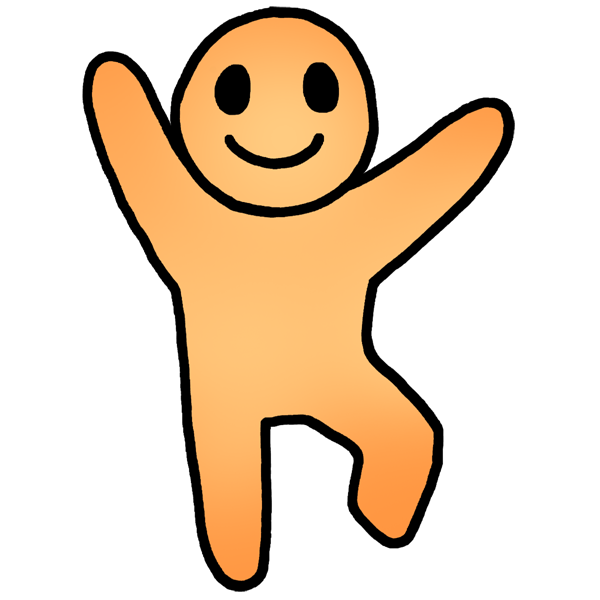
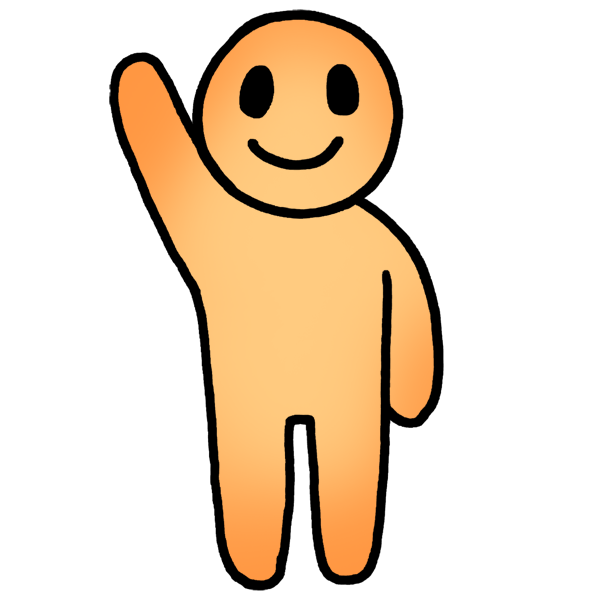
Updating apps.

Changed region(s): [[0.12, 0.0, 0.87, 0.99]]

diff --git a/projects/FlagKinect/output/FlagKinect.pde.html b/projects/FlagKinect/output/FlagKinect.pde.html
@@ -1,1 +1,1 @@
-<html><head><meta http-equiv="Content-Type" content="text/html; charset=utf-8"/><title>FlagKinect</title></head><body>Human&nbsp;human;<br>PFont&nbsp;font,&nbsp;largeFont;<br>PImage&nbsp;left,&nbsp;right;<br><font color="purple"><b>int</b></font>&nbsp;start;<br><font color="purple"><b>int</b></font>&nbsp;score;<br><font color="purple"><b>boolean</b></font>&nbsp;flag;<br><br><font color="purple"><b>void</b></font>&nbsp;setup()&nbsp;{<br>&nbsp;&nbsp;human&nbsp;=&nbsp;<font color="purple"><b>new</b></font>&nbsp;Human();<br>&nbsp;&nbsp;font&nbsp;=&nbsp;createFont(&quot;Meiryo&nbsp;UI&quot;,&nbsp;24,&nbsp;<font color="purple"><b>true</b></font>);<br>&nbsp;&nbsp;largeFont&nbsp;=&nbsp;createFont(&quot;Meiryo&nbsp;UI&quot;,&nbsp;40,&nbsp;<font color="purple"><b>true</b></font>);<br>&nbsp;&nbsp;size(640,&nbsp;640);<br>&nbsp;&nbsp;frameRate(15);<br>&nbsp;&nbsp;start&nbsp;=&nbsp;getTime();<br>&nbsp;&nbsp;flag&nbsp;=&nbsp;random(0,&nbsp;1)&nbsp;&gt;&nbsp;0.5;<br>&nbsp;&nbsp;left&nbsp;=&nbsp;loadImage(&quot;left.png&quot;);<br>&nbsp;&nbsp;right&nbsp;=&nbsp;loadImage(&quot;right.png&quot;);<br>}<br><br><font color="purple"><b>void</b></font>&nbsp;draw()&nbsp;{<br><br>&nbsp;&nbsp;<font color="#cc3300">//&nbsp;姿勢取得<br></font>&nbsp;&nbsp;Pose&nbsp;pose&nbsp;=&nbsp;human.getPose();<br><br>&nbsp;&nbsp;<font color="#cc3300">//&nbsp;背景クリア<br></font>&nbsp;&nbsp;<font color="purple"><b>if</b></font>&nbsp;(pose&nbsp;==&nbsp;<font color="purple"><b>null</b></font>)&nbsp;{<br>&nbsp;&nbsp;&nbsp;&nbsp;background(200);<br>&nbsp;&nbsp;}&nbsp;<font color="purple"><b>else</b></font>&nbsp;{<br>&nbsp;&nbsp;&nbsp;&nbsp;background(255);<br>&nbsp;&nbsp;}<br>&nbsp;&nbsp;fill(0);<br><br>&nbsp;&nbsp;<font color="#cc3300">//&nbsp;指示<br></font>&nbsp;&nbsp;textFont(largeFont);<br>&nbsp;&nbsp;textAlign(CENTER);<br>&nbsp;&nbsp;<font color="purple"><b>if</b></font>&nbsp;(flag)&nbsp;{<br>&nbsp;&nbsp;&nbsp;&nbsp;image(left,&nbsp;20,&nbsp;10);<br>&nbsp;&nbsp;&nbsp;&nbsp;text(&quot;左手あげて！&quot;,&nbsp;320,&nbsp;610);<br>&nbsp;&nbsp;}&nbsp;<font color="purple"><b>else</b></font>&nbsp;{<br>&nbsp;&nbsp;&nbsp;&nbsp;image(right,&nbsp;20,&nbsp;10);<br>&nbsp;&nbsp;&nbsp;&nbsp;text(&quot;右手あげて！&quot;,&nbsp;320,&nbsp;610);<br>&nbsp;&nbsp;}<br><br>&nbsp;&nbsp;<font color="#cc3300">//&nbsp;得点<br></font>&nbsp;&nbsp;textFont(font);<br>&nbsp;&nbsp;textAlign(LEFT);<br>&nbsp;&nbsp;text(&quot;得点:&nbsp;&quot;&nbsp;+&nbsp;score,&nbsp;10,&nbsp;30);<br><br>&nbsp;&nbsp;<font color="#cc3300">//&nbsp;正解判定<br></font>&nbsp;&nbsp;<font color="purple"><b>if</b></font>&nbsp;(pose&nbsp;==&nbsp;<font color="purple"><b>null</b></font>)&nbsp;{<br>&nbsp;&nbsp;&nbsp;&nbsp;<font color="purple"><b>return</b></font>;<br>&nbsp;&nbsp;}<br>&nbsp;&nbsp;<font color="purple"><b>if</b></font>&nbsp;(flag&nbsp;&amp;&amp;&nbsp;pose.eq(<a href="./poses/New pose (3).txt"><img src="./poses/New pose (3).jpg" width="160" border="1" /></a>))<br>&nbsp;&nbsp;||&nbsp;!flag&nbsp;&amp;&amp;&nbsp;pose.eq(<a href="./poses/New pose (4).txt"><img src="./poses/New pose (4).jpg" width="160" border="1" /></a>)))&nbsp;{<br>&nbsp;&nbsp;&nbsp;&nbsp;<font color="purple"><b>int</b></font>&nbsp;end&nbsp;=&nbsp;getTime();<br>&nbsp;&nbsp;&nbsp;&nbsp;score&nbsp;=&nbsp;100&nbsp;-&nbsp;(end&nbsp;-&nbsp;start);<br>&nbsp;&nbsp;&nbsp;&nbsp;<font color="purple"><b>if</b></font>&nbsp;(score&nbsp;&lt;&nbsp;0)&nbsp;{<br>&nbsp;&nbsp;&nbsp;&nbsp;&nbsp;&nbsp;score&nbsp;=&nbsp;0;<br>&nbsp;&nbsp;&nbsp;&nbsp;}<br>&nbsp;&nbsp;&nbsp;&nbsp;flag&nbsp;=&nbsp;random(0,&nbsp;1)&nbsp;&gt;&nbsp;0.5;<br>&nbsp;&nbsp;}<br>}<br><br><font color="purple"><b>int</b></font>&nbsp;getTime()&nbsp;{<br>&nbsp;&nbsp;<font color="purple"><b>return</b></font>&nbsp;hour()&nbsp;*&nbsp;60&nbsp;*&nbsp;60&nbsp;+&nbsp;minute()&nbsp;*&nbsp;60&nbsp;+&nbsp;second();<br>}<br></body></html>
+<html><head><meta http-equiv="Content-Type" content="text/html; charset=utf-8"/><title>FlagKinect</title></head><body>Human&nbsp;human;<br>PFont&nbsp;font,&nbsp;largeFont;<br>PImage&nbsp;left,&nbsp;right,&nbsp;none,&nbsp;both;<br>Pose&nbsp;pose;<br><font color="purple"><b>int</b></font>&nbsp;start;<br><font color="purple"><b>int</b></font>&nbsp;score;<br><font color="purple"><b>int</b></font>&nbsp;goal;<br><br><font color="#cc3300">//&nbsp;はじめに一度だけ実行される処理<br></font><font color="purple"><b>void</b></font>&nbsp;setup()&nbsp;{<br>&nbsp;&nbsp;human&nbsp;=&nbsp;<font color="purple"><b>new</b></font>&nbsp;Human();<br>&nbsp;&nbsp;human.showCaptureFrame(<font color="purple"><b>true</b></font>);<br>&nbsp;&nbsp;font&nbsp;=&nbsp;createFont(&quot;Meiryo&nbsp;UI&quot;,&nbsp;24,&nbsp;<font color="purple"><b>true</b></font>);<br>&nbsp;&nbsp;largeFont&nbsp;=&nbsp;createFont(&quot;Meiryo&nbsp;UI&quot;,&nbsp;40,&nbsp;<font color="purple"><b>true</b></font>);<br>&nbsp;&nbsp;size(640,&nbsp;640);<br>&nbsp;&nbsp;frameRate(15);<br>&nbsp;&nbsp;start&nbsp;=&nbsp;-1;<br>&nbsp;&nbsp;left&nbsp;=&nbsp;loadImage(&quot;left.png&quot;);<br>&nbsp;&nbsp;right&nbsp;=&nbsp;loadImage(&quot;right.png&quot;);<br>&nbsp;&nbsp;none&nbsp;=&nbsp;loadImage(&quot;none.png&quot;);<br>&nbsp;&nbsp;both&nbsp;=&nbsp;loadImage(&quot;both.png&quot;);<br>&nbsp;&nbsp;goal&nbsp;=&nbsp;(<font color="purple"><b>int</b></font>)&nbsp;random(0,&nbsp;4);<br>}<br><br><font color="#cc3300">//&nbsp;1秒に15回実行されつづける処理<br></font><font color="purple"><b>void</b></font>&nbsp;draw()&nbsp;{<br><br>&nbsp;&nbsp;<font color="#cc3300">//&nbsp;姿勢を取得<br></font>&nbsp;&nbsp;pose&nbsp;=&nbsp;human.getPose();<br><br>&nbsp;&nbsp;<font color="#cc3300">//&nbsp;画面に絵や得点を表示<br></font>&nbsp;&nbsp;clearBackground();&nbsp;<font color="#cc3300">//&nbsp;背景をクリア<br></font>&nbsp;&nbsp;showCommand();&nbsp;<font color="#cc3300">//&nbsp;指示内容の絵を表示<br></font>&nbsp;&nbsp;showScore();&nbsp;<font color="#cc3300">//&nbsp;得点を表示<br></font><br>&nbsp;&nbsp;<font color="#cc3300">//&nbsp;姿勢が取れなかったらここで終わる<br></font>&nbsp;&nbsp;<font color="#cc3300">//&nbsp;(正解判定に進まない)<br></font>&nbsp;&nbsp;<font color="purple"><b>if</b></font>&nbsp;(pose&nbsp;==&nbsp;<font color="purple"><b>null</b></font>)&nbsp;{<br>&nbsp;&nbsp;&nbsp;&nbsp;<font color="purple"><b>return</b></font>;<br>&nbsp;&nbsp;}<br><br>&nbsp;&nbsp;<font color="#cc3300">//&nbsp;正解判定<br></font>&nbsp;&nbsp;<font color="purple"><b>boolean</b></font>&nbsp;ok&nbsp;=&nbsp;<font color="purple"><b>false</b></font>;<br>&nbsp;&nbsp;<font color="purple"><b>switch</b></font>&nbsp;(goal)&nbsp;{<br>&nbsp;&nbsp;&nbsp;&nbsp;<font color="purple"><b>case</b></font>&nbsp;0:<br>&nbsp;&nbsp;&nbsp;&nbsp;&nbsp;&nbsp;<font color="purple"><b>if</b></font>&nbsp;(pose.eq(<a href="./poses/New pose (3).txt"><img src="./poses/New pose (3).jpg" width="160" border="1" /></a>)))&nbsp;{<br>&nbsp;&nbsp;&nbsp;&nbsp;&nbsp;&nbsp;&nbsp;&nbsp;ok&nbsp;=&nbsp;<font color="purple"><b>true</b></font>;<br>&nbsp;&nbsp;&nbsp;&nbsp;&nbsp;&nbsp;}<br>&nbsp;&nbsp;&nbsp;&nbsp;&nbsp;&nbsp;<font color="purple"><b>break</b></font>;<br>&nbsp;&nbsp;&nbsp;&nbsp;<font color="purple"><b>case</b></font>&nbsp;1:<br>&nbsp;&nbsp;&nbsp;&nbsp;&nbsp;&nbsp;<font color="purple"><b>if</b></font>&nbsp;(pose.eq(<a href="./poses/New pose (4).txt"><img src="./poses/New pose (4).jpg" width="160" border="1" /></a>)))&nbsp;{<br>&nbsp;&nbsp;&nbsp;&nbsp;&nbsp;&nbsp;&nbsp;&nbsp;ok&nbsp;=&nbsp;<font color="purple"><b>true</b></font>;<br>&nbsp;&nbsp;&nbsp;&nbsp;&nbsp;&nbsp;}<br>&nbsp;&nbsp;&nbsp;&nbsp;&nbsp;&nbsp;<font color="purple"><b>break</b></font>;<br>&nbsp;&nbsp;&nbsp;&nbsp;<font color="purple"><b>case</b></font>&nbsp;2:<br>&nbsp;&nbsp;&nbsp;&nbsp;&nbsp;&nbsp;<font color="purple"><b>if</b></font>&nbsp;(pose.eq(<a href="./poses/New pose (2).txt"><img src="./poses/New pose (2).jpg" width="160" border="1" /></a>)))&nbsp;{<br>&nbsp;&nbsp;&nbsp;&nbsp;&nbsp;&nbsp;&nbsp;&nbsp;ok&nbsp;=&nbsp;<font color="purple"><b>true</b></font>;<br>&nbsp;&nbsp;&nbsp;&nbsp;&nbsp;&nbsp;}<br>&nbsp;&nbsp;&nbsp;&nbsp;&nbsp;&nbsp;<font color="purple"><b>break</b></font>;<br>&nbsp;&nbsp;&nbsp;&nbsp;<font color="purple"><b>case</b></font>&nbsp;3:<br>&nbsp;&nbsp;&nbsp;&nbsp;&nbsp;&nbsp;<font color="purple"><b>if</b></font>&nbsp;(pose.eq(<a href="./poses/New pose (5).txt"><img src="./poses/New pose (5).jpg" width="160" border="1" /></a>)))&nbsp;{<br>&nbsp;&nbsp;&nbsp;&nbsp;&nbsp;&nbsp;&nbsp;&nbsp;ok&nbsp;=&nbsp;<font color="purple"><b>true</b></font>;<br>&nbsp;&nbsp;&nbsp;&nbsp;&nbsp;&nbsp;}<br>&nbsp;&nbsp;&nbsp;&nbsp;&nbsp;&nbsp;<font color="purple"><b>break</b></font>;<br>&nbsp;&nbsp;}<br><br>&nbsp;&nbsp;<font color="#cc3300">//&nbsp;姿勢が正しくなかったらここで終わる<br></font>&nbsp;&nbsp;<font color="purple"><b>if</b></font>&nbsp;(ok&nbsp;==&nbsp;<font color="purple"><b>false</b></font>)&nbsp;{<br>&nbsp;&nbsp;&nbsp;&nbsp;<font color="purple"><b>return</b></font>;<br>&nbsp;&nbsp;}<br><br>&nbsp;&nbsp;<font color="#cc3300">//&nbsp;正解!!<br></font>&nbsp;&nbsp;calcScore();<br>&nbsp;&nbsp;setNewGoal();<br>}<br><br><font color="#cc3300">//&nbsp;背景をクリア<br></font><font color="purple"><b>void</b></font>&nbsp;clearBackground()&nbsp;{<br>&nbsp;&nbsp;<font color="purple"><b>if</b></font>&nbsp;(pose&nbsp;==&nbsp;<font color="purple"><b>null</b></font>)&nbsp;{<br>&nbsp;&nbsp;&nbsp;&nbsp;background(200);<br>&nbsp;&nbsp;}&nbsp;<font color="purple"><b>else</b></font>&nbsp;{<br>&nbsp;&nbsp;&nbsp;&nbsp;background(255);<br>&nbsp;&nbsp;}<br>}<br><br><font color="#cc3300">//&nbsp;指示内容の絵を表示<br></font><font color="purple"><b>void</b></font>&nbsp;showCommand()&nbsp;{<br>&nbsp;&nbsp;textFont(largeFont);<br>&nbsp;&nbsp;textAlign(CENTER);<br>&nbsp;&nbsp;fill(0);<br>&nbsp;&nbsp;<font color="purple"><b>switch</b></font>&nbsp;(goal)&nbsp;{<br>&nbsp;&nbsp;&nbsp;&nbsp;<font color="purple"><b>case</b></font>&nbsp;0:<br>&nbsp;&nbsp;&nbsp;&nbsp;&nbsp;&nbsp;image(left,&nbsp;20,&nbsp;10);<br>&nbsp;&nbsp;&nbsp;&nbsp;&nbsp;&nbsp;text(&quot;左手あげて！&quot;,&nbsp;320,&nbsp;610);<br>&nbsp;&nbsp;&nbsp;&nbsp;&nbsp;&nbsp;<font color="purple"><b>break</b></font>;<br>&nbsp;&nbsp;&nbsp;&nbsp;<font color="purple"><b>case</b></font>&nbsp;1:<br>&nbsp;&nbsp;&nbsp;&nbsp;&nbsp;&nbsp;image(right,&nbsp;20,&nbsp;10);<br>&nbsp;&nbsp;&nbsp;&nbsp;&nbsp;&nbsp;text(&quot;右手あげて！&quot;,&nbsp;320,&nbsp;610);<br>&nbsp;&nbsp;&nbsp;&nbsp;&nbsp;&nbsp;<font color="purple"><b>break</b></font>;<br>&nbsp;&nbsp;&nbsp;&nbsp;<font color="purple"><b>case</b></font>&nbsp;2:<br>&nbsp;&nbsp;&nbsp;&nbsp;&nbsp;&nbsp;image(none,&nbsp;20,&nbsp;10);<br>&nbsp;&nbsp;&nbsp;&nbsp;&nbsp;&nbsp;text(&quot;両手さげて！&quot;,&nbsp;320,&nbsp;610);<br>&nbsp;&nbsp;&nbsp;&nbsp;&nbsp;&nbsp;<font color="purple"><b>break</b></font>;<br>&nbsp;&nbsp;&nbsp;&nbsp;<font color="purple"><b>case</b></font>&nbsp;3:<br>&nbsp;&nbsp;&nbsp;&nbsp;&nbsp;&nbsp;image(both,&nbsp;20,&nbsp;10);<br>&nbsp;&nbsp;&nbsp;&nbsp;&nbsp;&nbsp;text(&quot;両手あげて！&quot;,&nbsp;320,&nbsp;610);<br>&nbsp;&nbsp;&nbsp;&nbsp;&nbsp;&nbsp;<font color="purple"><b>break</b></font>;<br>&nbsp;&nbsp;}<br>}<br><br><font color="#cc3300">//&nbsp;得点を表示<br></font><font color="purple"><b>void</b></font>&nbsp;showScore()&nbsp;{<br>&nbsp;&nbsp;textFont(font);<br>&nbsp;&nbsp;textAlign(LEFT);<br>&nbsp;&nbsp;fill(0);<br>&nbsp;&nbsp;text(&quot;得点:&nbsp;&quot;&nbsp;+&nbsp;score,&nbsp;10,&nbsp;30);<br>}<br><br><font color="#cc3300">//&nbsp;得点を計算<br></font><font color="purple"><b>void</b></font>&nbsp;calcScore()&nbsp;{<br>&nbsp;&nbsp;<font color="purple"><b>int</b></font>&nbsp;end&nbsp;=&nbsp;getTime();<br>&nbsp;&nbsp;<font color="purple"><b>if</b></font>&nbsp;(start&nbsp;&gt;=&nbsp;0)&nbsp;{<br>&nbsp;&nbsp;&nbsp;&nbsp;<font color="purple"><b>int</b></font>&nbsp;bonus&nbsp;=&nbsp;100&nbsp;-&nbsp;(end&nbsp;-&nbsp;start);<br>&nbsp;&nbsp;&nbsp;&nbsp;<font color="purple"><b>if</b></font>&nbsp;(bonus&nbsp;&gt;=&nbsp;0)&nbsp;{<br>&nbsp;&nbsp;&nbsp;&nbsp;&nbsp;&nbsp;score&nbsp;+=&nbsp;bonus;<br>&nbsp;&nbsp;&nbsp;&nbsp;}<br>&nbsp;&nbsp;}<br>&nbsp;&nbsp;start&nbsp;=&nbsp;end;<br>}<br><br><font color="#cc3300">//&nbsp;次のゴールを設定<br></font><font color="purple"><b>void</b></font>&nbsp;setNewGoal()&nbsp;{<br>&nbsp;&nbsp;<font color="purple"><b>int</b></font>&nbsp;newGoal&nbsp;=&nbsp;(<font color="purple"><b>int</b></font>)&nbsp;random(0,&nbsp;3);<br>&nbsp;&nbsp;<font color="purple"><b>if</b></font>&nbsp;(goal&nbsp;&lt;=&nbsp;newGoal)&nbsp;{<br>&nbsp;&nbsp;&nbsp;&nbsp;goal&nbsp;=&nbsp;newGoal&nbsp;+&nbsp;1;<br>&nbsp;&nbsp;}&nbsp;<font color="purple"><b>else</b></font>&nbsp;{<br>&nbsp;&nbsp;&nbsp;&nbsp;goal&nbsp;=&nbsp;newGoal;<br>&nbsp;&nbsp;}<br>}<br><br><font color="#cc3300">//&nbsp;今の時刻を取得<br></font><font color="purple"><b>int</b></font>&nbsp;getTime()&nbsp;{<br>&nbsp;&nbsp;<font color="purple"><b>return</b></font>&nbsp;hour()&nbsp;*&nbsp;60&nbsp;*&nbsp;60&nbsp;+&nbsp;minute()&nbsp;*&nbsp;60&nbsp;+&nbsp;second();<br>}<br></body></html>
